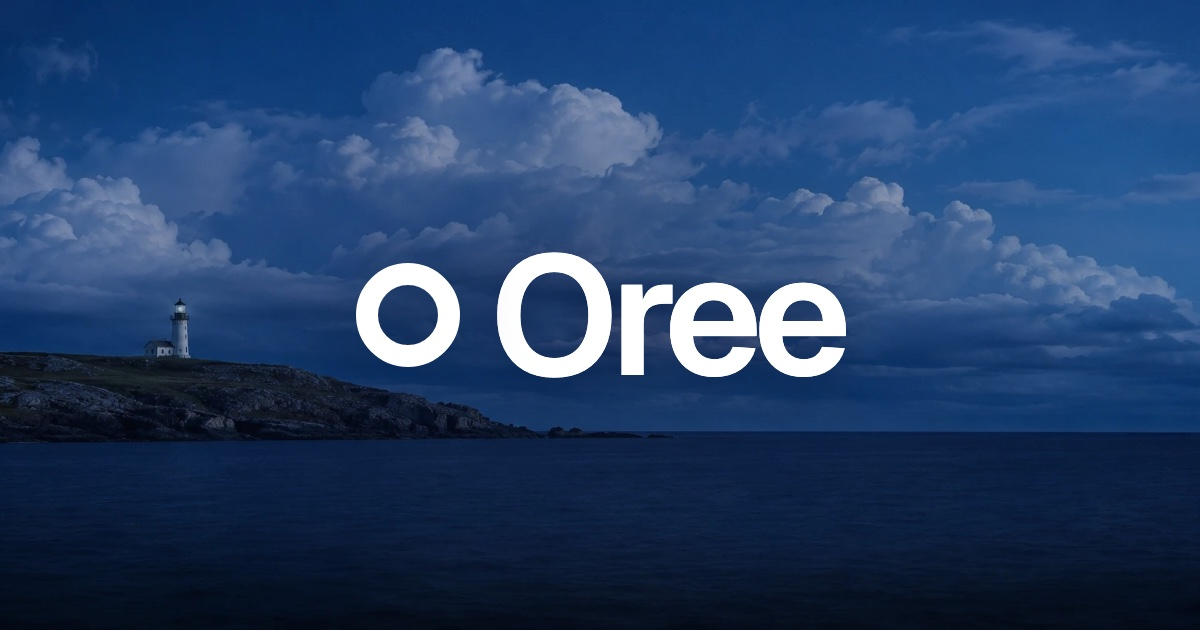
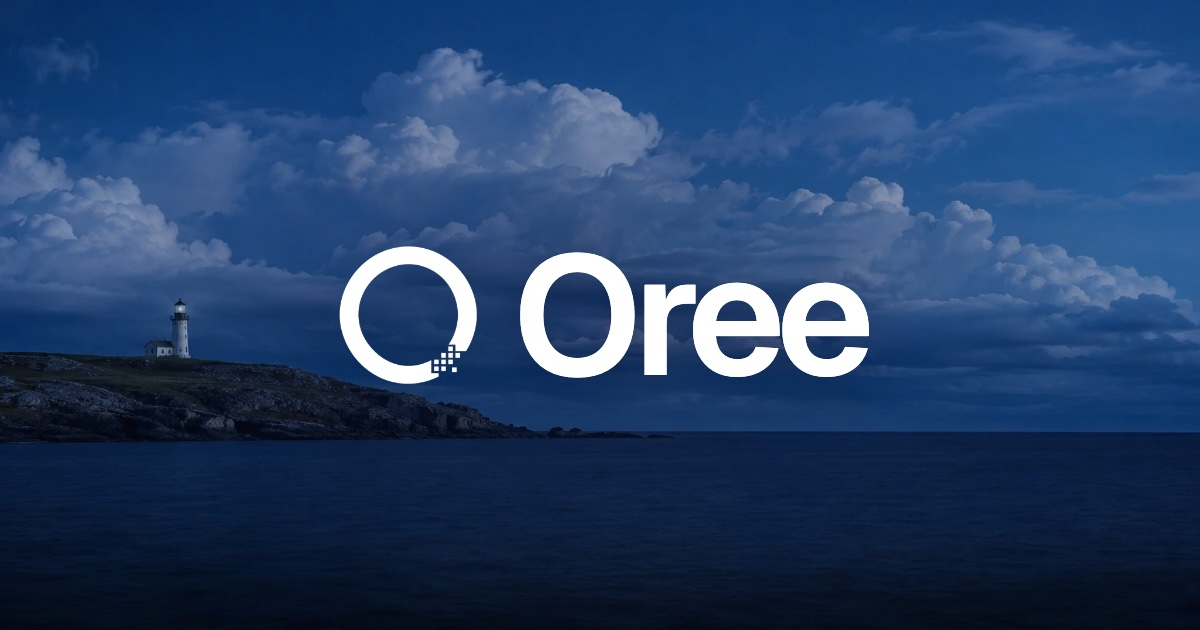
Share picture with the new mark; larger mark on the site; no disk cache for requests

Changed region(s): [[0.2775, 0.3921, 0.74, 0.6333]]

diff --git a/Sources/Oree/NowPlaying.swift b/Sources/Oree/NowPlaying.swift
@@ -247,11 +247,11 @@ final class NowPlaying {
     private func lookUpCover(_ store: String) {
         Task.detached(priority: .utility) {
             guard let lookup = URL(string: "https://itunes.apple.com/lookup?id=\(store)"),
-                  let (data, _) = try? await URLSession.shared.data(from: lookup),
+                  let (data, _) = try? await URLSession.oree.data(from: lookup),
                   let reply = try? JSONSerialization.jsonObject(with: data) as? [String: Any],
                   let small = (reply["results"] as? [[String: Any]])?.first?["artworkUrl100"] as? String,
                   let large = URL(string: small.replacingOccurrences(of: "100x100bb", with: "600x600bb")),
-                  let (picture, _) = try? await URLSession.shared.data(from: large),
+                  let (picture, _) = try? await URLSession.oree.data(from: large),
                   let image = NSImage(data: picture)
             else { return }
             await MainActor.run {

diff --git a/site/index.html b/site/index.html
@@ -9,12 +9,12 @@
 <meta property="og:description" content="A macOS desktop with widgets and an assistant. Free and open source.">
 <meta property="og:type" content="website">
 <meta property="og:url" content="https://oree.space">
-<meta property="og:image" content="https://oree.space/og.jpg">
+<meta property="og:image" content="https://oree.space/og.jpg?v=2">
 <meta property="og:image:width" content="1200">
 <meta property="og:image:height" content="630">
 <meta property="og:image:alt" content="Oree, written in white over a lighthouse on the coast at dusk">
 <meta name="twitter:card" content="summary_large_image">
-<meta name="twitter:image" content="https://oree.space/og.jpg">
+<meta name="twitter:image" content="https://oree.space/og.jpg?v=2">
 <meta name="theme-color" content="#ffffff">
 <link rel="icon" type="image/png" href="favicon.png">
 <link rel="apple-touch-icon" href="apple-touch-icon.png">

diff --git a/site/style.css b/site/style.css
@@ -60,7 +60,7 @@ canvas.picture { display: block; width: 100%; image-rendering: pixelated; }
 }
 
 .brand { display: inline-flex; align-items: center; gap: 9px; font-weight: 600; font-size: 17px; letter-spacing: -0.02em; }
-.mark { width: 20px; height: 20px; background: url("mark.png") center / contain no-repeat; }
+.mark { width: 30px; height: 30px; background: url("mark.png") center / contain no-repeat; }
 .nav nav { display: flex; gap: 28px; font-size: 14.5px; color: var(--soft); }
 .nav nav a { transition: color 0.2s; }
 .nav nav a:hover { color: var(--ink); }

diff --git a/Sources/Oree/Weather.swift b/Sources/Oree/Weather.swift
@@ -76,7 +76,7 @@ final class WeatherFeed: NSObject, CLLocationManagerDelegate {
             position.latitude, position.longitude
         )
         guard let url = URL(string: address),
-              let (data, _) = try? await URLSession.shared.data(from: url),
+              let (data, _) = try? await URLSession.oree.data(from: url),
               let reply = try? JSONSerialization.jsonObject(with: data) as? [String: Any],
               let current = reply["current"] as? [String: Any],
               let daily = reply["daily"] as? [String: Any],

diff --git a/Sources/Oree/Shell.swift b/Sources/Oree/Shell.swift
@@ -28,3 +28,10 @@ enum Shell {
     }
 
 }
+
+extension URLSession {
+    /// For the few requests Oree makes. It keeps nothing on disk: the shared
+    /// session leaves a folder named after the app in ~/Library/HTTPStorages,
+    /// which Spotlight then offers as a second copy of the app.
+    static let oree = URLSession(configuration: .ephemeral)
+}
